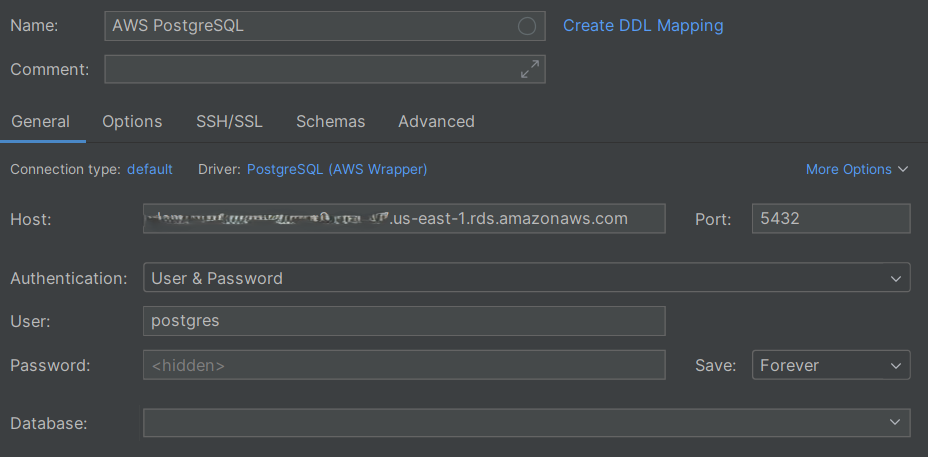
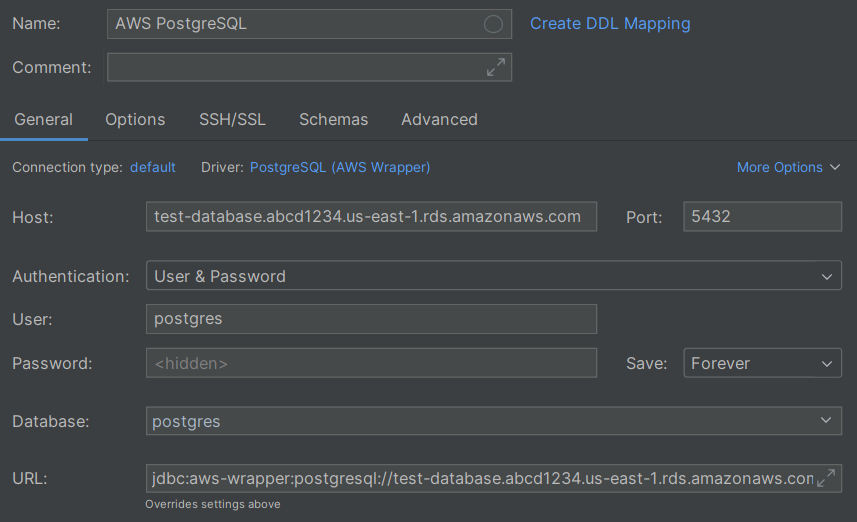
docs: use example database URL values

diff --git a/docs/ultimate-sql-setup-guide/02-managed-services.md b/docs/ultimate-sql-setup-guide/02-managed-services.md
@@ -52,7 +52,9 @@ The important details you'll need are:
 - **Username**: `postgres`, or whatever you set it to when creating the database
 - **Password**: You would have set this when creating the database
 
-Here's an example of how to use these details in IntelliJ:
+For example, suppose the instance name was `test-database`, the unique ID was `abcd1234`, and the region was `us-east-1`.
+
+Here's an example of how to use these details in [IntelliJ](https://www.jetbrains.com/):
 
 <center>
 
@@ -68,7 +70,7 @@ import psycopg2
 def main() -> None:
     db_conn = psycopg2.connect(
         " ".join([
-            "host=<instance-name>.<unique-id>.<region>.rds.amazonaws.com",
+            "host=test-database.abcd1234.us-east-1.rds.amazonaws.com",
             "port=5432",
             "user=postgres",
             "password=...",
@@ -92,15 +94,21 @@ You can sign up for a free trial of Snowflake at:
 
 Similar to PostgreSQL on AWS, the important details are:
 
-- **Account**: This is either set by you, or generated by Snowflake
+- **Account Identifier**: This is either set by you, or generated by Snowflake
 - **Username**: This is the username you chose when signing up (most likely your email)
 - **Password**: This is the password you chose when signing up
 
-You can add additional usernames and passwords later, but for now, use the ones you set when signing up. Combine the account with `snowflakecomputing.com` (and [possibly the cloud region](https://docs.snowflake.com/en/user-guide/organizations-connect)) to make the host name:
+You can add additional usernames and passwords later, but for now, use the ones you set when signing up. Combine the account identifier with `snowflakecomputing.com` (and [possibly the cloud region](https://docs.snowflake.com/en/user-guide/organizations-connect)) to make the host name:
 
-- `<account-name>.snowflakecomputing.com`
+- `<account-identifier>.snowflakecomputing.com`
 
-Here's an example of how to use these details in IntelliJ:
+If you signed up for a free trial, the "account identifier" will be the generated organisation name with the generated account name. You can find this in the URL when you log in to Snowflake:
+
+- `https://app.snowflake.com/abcdxyz/mn12345/#/homepage`
+
+The account identifier for the URL above is `abcdxyz-mn12345`.
+
+Here's an example of how to use these details in [IntelliJ](https://www.jetbrains.com/):
 
 ![snowflake-intellij.png](./resources/snowflake-intellij.png)
 
@@ -111,9 +119,9 @@ import snowflake.connector
 
 def main() -> None:
     db_conn = snowflake.connector.connect(
-        account="<account-name>",
-        user="<username>",
-        password="<password>",
+        account="abcdxyz-mn12345",
+        user="bilbottom",
+        password="...",
     )
 
     with db_conn.cursor() as cursor:

diff --git a/docs/ultimate-sql-setup-guide/05-dbms-system-docker.md b/docs/ultimate-sql-setup-guide/05-dbms-system-docker.md
@@ -58,7 +58,7 @@ Then, you can launch these with `docker compose up` and connect to them in the w
 
 The `volumes` property is important for persisting data on the machine that Docker is running on between runs. If you don't set this, the data will be lost when the container is stopped.
 
-Here's an example of how to connect to these in IntelliJ:
+Here's an example of how to connect to these in [IntelliJ](https://www.jetbrains.com/):
 
 <center>
 
